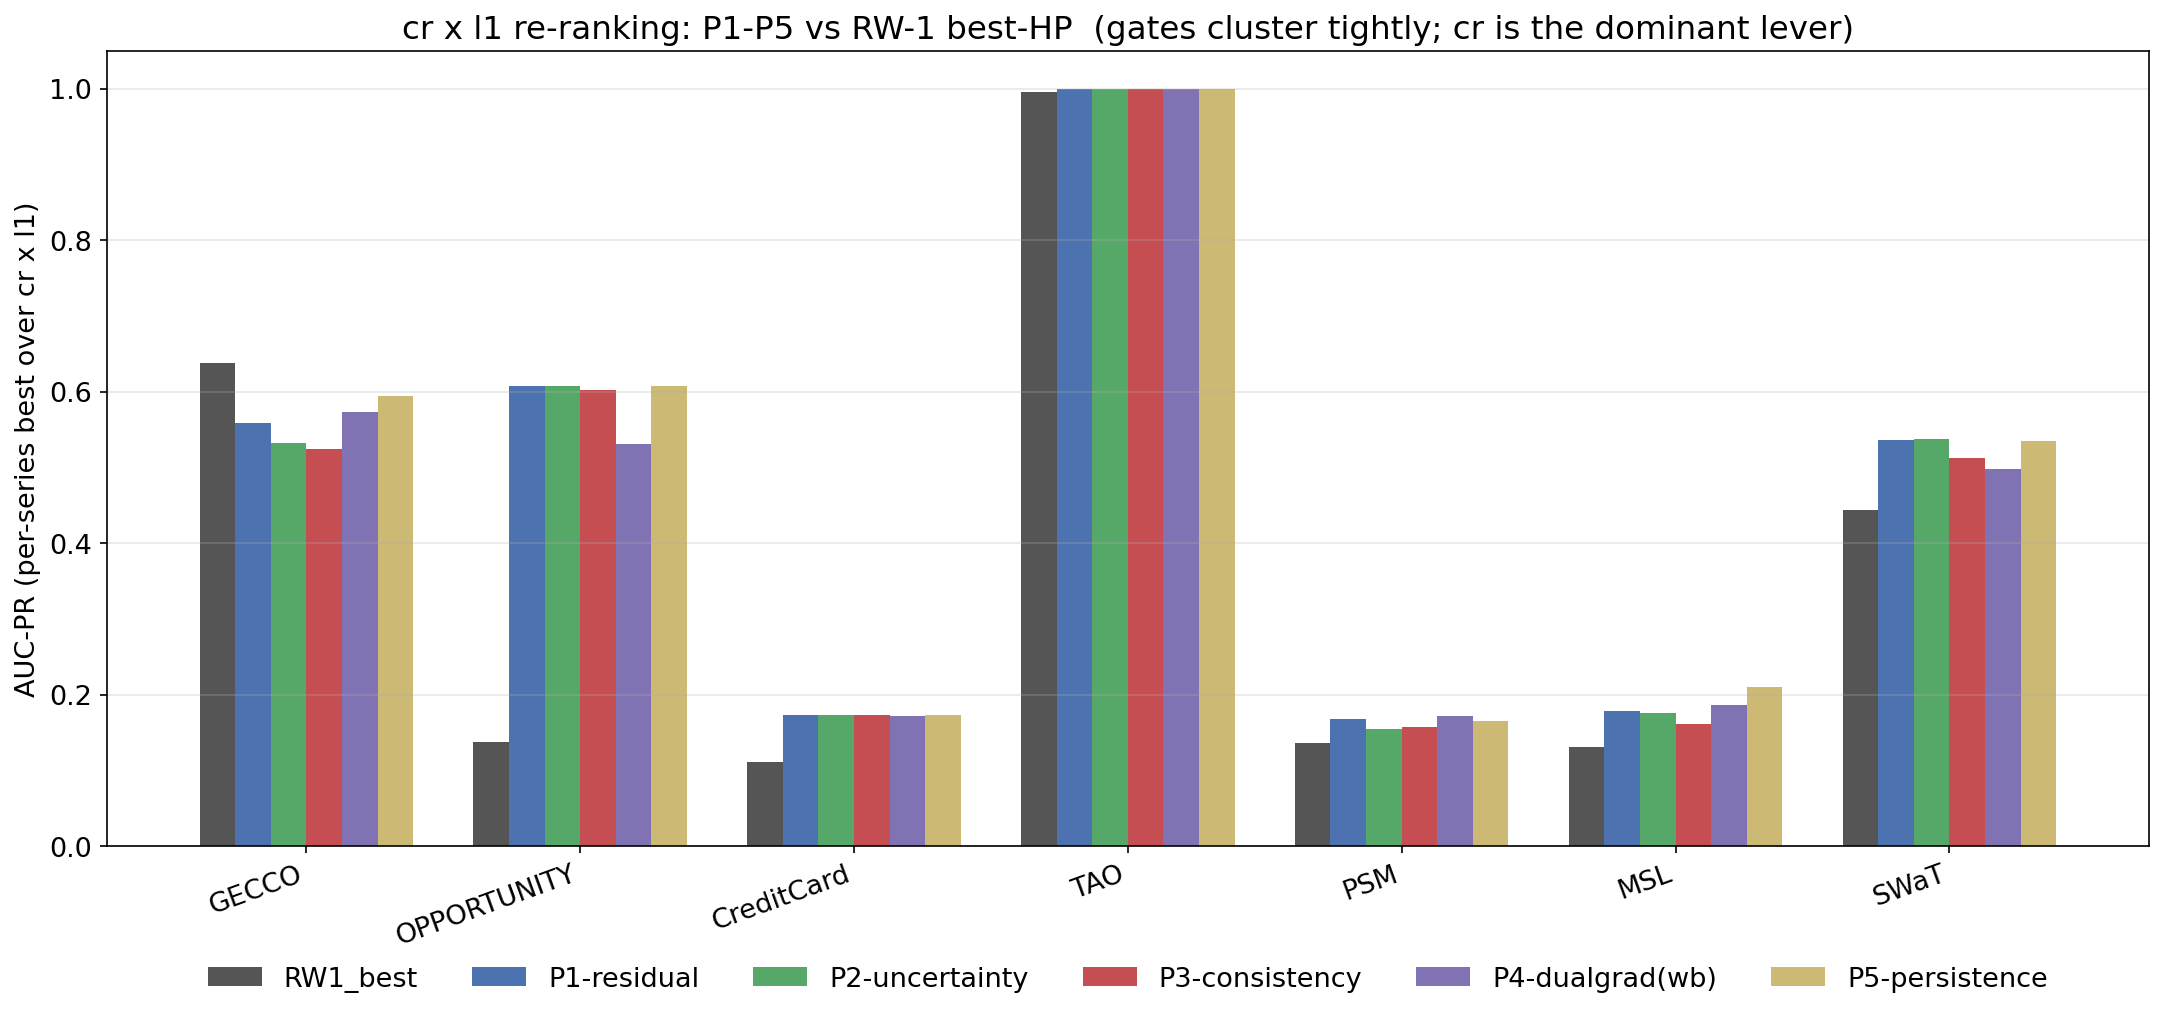
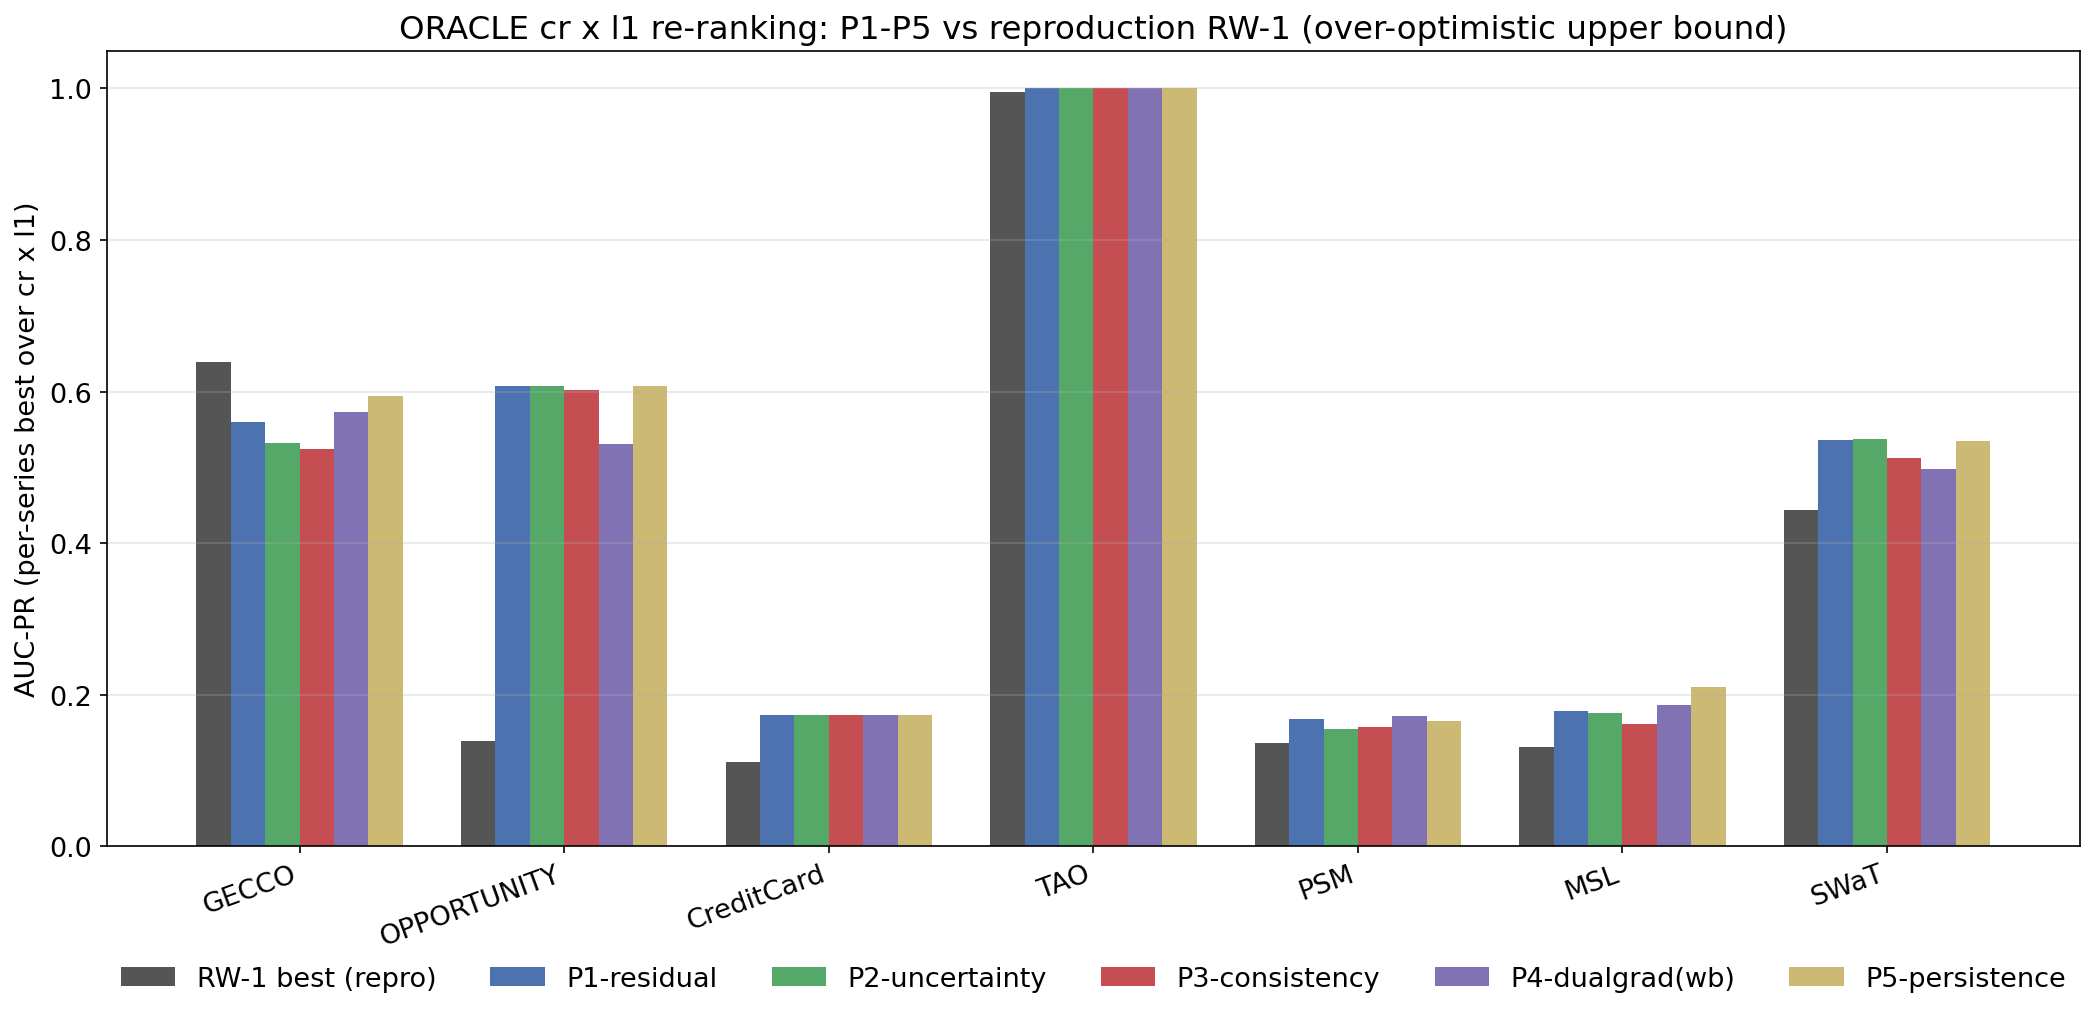
docs: deployable single-config vs thesis RW 1 (oracle 6/7 -> 3/7)
Addresses the fairness caveat with NO new runs, using two fixes:
(a) collapse each proposal to ONE deployable (cr,l1) config (max mean-over-collections
    AUC-PR) instead of the per-series oracle;
(b) baseline against Baldo's own cr-tuned RW 1 (thesis Table 6.2) instead of our
    cr=0.1-fixed reproduction -- so RW-1 does NOT need re-running.

  MEAN(7): thesis RW1 0.343 | P1 0.424 | P2 0.424 | P3 0.422 | P4(wb) 0.409 | P5 0.425
  wins vs thesis RW 1: 3/7 for every proposal (was 6/7 oracle).

Honest reading: the oracle 6/7 collapses to 3/7, and the two big remaining "wins"
(OPPORTUNITY, SWaT) are protocol-confounded -- for the SAME RW 1 method thesis reports
SWaT 0.227 vs our gate-off reproduction 0.444 -- so the CEGAR gate's own contribution is
~ 0, consistent with the tight P1-P5 clustering (0.409-0.425). correction_rate tuning is
what moves the number, not the gate.

log_crtune_rerank.py now emits both the oracle and deployable-vs-thesis tables/figures and
logs both to the wandb summary run. Drops the "re-run RW-1 cr x l1" next step (thesis Table
6.2 covers it); records the open gate-design question for the Luis meeting.

diff --git a/experiments/proposals/log_crtune_rerank.py b/experiments/proposals/log_crtune_rerank.py
@@ -32,18 +32,42 @@ NAMES = {1: "P1-residual", 2: "P2-uncertainty", 3: "P3-consistency",
          4: "P4-dualgrad(wb)", 5: "P5-persistence"}
 CSV = {n: f"results_p{n}_proposal{n}_crtune.csv" for n in range(1, 6)}
 
+# Thesis (Baldo, Table 6.2) per-dataset AUC-PR for method "RW 1" = the method we reproduce.
+# This is Baldo's own properly-tuned (cr-tuned, §6.3.2) RW-1, so it is the fair *deployable*
+# baseline. NOTE: it is on the thesis's protocol, not ours -> protocol-confounded (e.g. thesis
+# RW1 SWaT 0.227 vs our reproduction RW-1 SWaT 0.444 for the SAME method).
+THESIS_RW1 = {"GECCO": 0.621, "OPPORTUNITY": 0.059, "CreditCard": 0.173,
+              "TAO": 1.000, "PSM": 0.238, "MSL": 0.086, "SWaT": 0.227}
+
 
 def rw_means():
     rw = pd.read_csv(os.path.join(ROOT, "rw/reproduction/summary_rw1_besthp.csv"))
     return rw.groupby("family")["best_pr"].mean()
 
 
-def best_by_collection(path):
+def _load(path):
     d = pd.read_csv(path)
     d = d[pd.to_numeric(d["auc_pr"], errors="coerce").notna()].copy()
     d["auc_pr"] = d["auc_pr"].astype(float)
+    return d
+
+
+def best_by_collection(path):
+    """ORACLE: per-series best over the cr x l1 grid, then collection mean (upper bound)."""
+    d = _load(path)
     b = d.loc[d.groupby(["collection", "dataset"])["auc_pr"].idxmax()]
     return b.groupby("collection")["auc_pr"].mean()
+
+
+def fixed_config_by_collection(path):
+    """DEPLOYABLE: pick the SINGLE (cr, l1) that maximizes mean-over-collections AUC-PR, then
+    report that one config's per-collection values (no per-series oracle). Returns (series, cfg)."""
+    d = _load(path)
+    g = d.groupby(["correction_rate", "l1_weight", "collection"])["auc_pr"].mean().reset_index()
+    piv = g.pivot_table(index=["correction_rate", "l1_weight"],
+                        columns="collection", values="auc_pr").reindex(columns=ORDER)
+    best = piv.mean(axis=1).idxmax()
+    return piv.loc[best], best
 
 
 def main():
@@ -75,36 +99,72 @@ def main():
     per = f.groupby("dataset")["auc_pr"].max()
     full200_mean, full200_n = float(per.mean()), int(len(per))
 
+    # -- FIXED-CONFIG (deployable) vs thesis RW 1 baseline -------------------
+    fx, cfg = {}, {}
+    for n in range(1, 6):
+        fx[n], cfg[n] = fixed_config_by_collection(os.path.join(HERE, CSV[n]))
+    frows = []
+    for c in ORDER:
+        r = {"collection": c, "thesis_RW1": THESIS_RW1[c]}
+        for n in range(1, 6):
+            r[NAMES[n]] = round(float(fx[n][c]), 4)
+        frows.append(r)
+    fmeans = {"collection": "MEAN(7)", "thesis_RW1": round(np.mean(list(THESIS_RW1.values())), 4)}
+    for n in range(1, 6):
+        fmeans[NAMES[n]] = round(float(np.mean([fx[n][c] for c in ORDER])), 4)
+    fdf = pd.concat([pd.DataFrame(frows), pd.DataFrame([fmeans])], ignore_index=True)
+    fwins = {NAMES[n]: int(sum(fx[n][c] > THESIS_RW1[c] for c in ORDER)) for n in range(1, 6)}
+    cfgstr = {NAMES[n]: f"cr{cfg[n][0]}/l1{cfg[n][1]}" for n in range(1, 6)}
+
     txt = os.path.join(HERE, "docs", "crtune_rerank.txt")
     with open(txt, "w") as fh:
-        fh.write("cr x l1 RE-RANK (per-series best-HP, collection mean)\n")
+        fh.write("=== ORACLE: per-series best over cr x l1, collection mean ===\n")
         fh.write(df.to_string(index=False) + "\n\n")
-        fh.write(f"wins vs RW-1 (of 7): {wins}\n")
-        fh.write("CAVEAT: RW-1 best-HP swept l1 only (cr fixed); P1-P5 got the extra cr axis "
-                 "-> wins are NOT like-for-like.\n\n")
+        fh.write(f"wins vs reproduction RW-1 (of 7): {wins}\n")
+        fh.write("CAVEAT: reproduction RW-1 swept l1 only (cr fixed at 0.1); this ORACLE table gives "
+                 "P1-P5 the extra cr axis AND per-series HP -> not deployable, over-optimistic.\n\n")
+        fh.write("=== DEPLOYABLE: single (cr,l1) per proposal vs thesis RW 1 (Table 6.2, Baldo-tuned) ===\n")
+        fh.write(fdf.to_string(index=False) + "\n\n")
+        fh.write(f"chosen single config: {cfgstr}\n")
+        fh.write(f"wins vs thesis RW 1 (of 7): {fwins}\n")
+        fh.write("READ: oracle 6/7 collapses to 3/7 with one deployable config. The remaining wins "
+                 "(OPPORTUNITY/SWaT) are protocol-confounded -- our gate-off reproduction RW-1 already "
+                 "gets SWaT 0.444 vs thesis RW1 0.227 for the SAME method -> gate contribution ~ 0.\n\n")
         fh.write(f"P5 full-200 (per-file best over cr x l1) = {full200_mean:.4f} over {full200_n} series\n")
-        fh.write("  vs thesis RW-1 0.28 / reproduction RW-1 best-HP 0.289\n")
+        fh.write("  vs thesis RW-1 0.28 (Table 6.1) -- oracle upper bound; RW-1 not re-run on full-200.\n")
     print(open(txt).read())
 
-    # -- figure: grouped bar chart ------------------------------------------
+    # -- figures: two grouped bar charts (oracle + deployable) --------------
     plt.rcParams.update({"font.size": 13})
-    fig, ax = plt.subplots(figsize=(15, 7))
-    labels = ["RW1_best"] + [NAMES[n] for n in range(1, 6)]
     colors = ["#555555", "#4C72B0", "#55A868", "#C44E52", "#8172B3", "#CCB974"]
-    x = np.arange(len(ORDER)); w = 0.13
-    for i, lab in enumerate(labels):
-        vals = [df[df.collection == c][lab].values[0] for c in ORDER]
-        ax.bar(x + (i - 2.5) * w, vals, w, label=lab, color=colors[i])
-    ax.set_xticks(x); ax.set_xticklabels(ORDER, rotation=20, ha="right")
-    ax.set_ylabel("AUC-PR (per-series best over cr x l1)")
-    ax.set_title("cr x l1 re-ranking: P1-P5 vs RW-1 best-HP  (gates cluster tightly; "
-                 "cr is the dominant lever)")
-    ax.legend(ncol=6, loc="upper center", bbox_to_anchor=(0.5, -0.12), frameon=False)
-    ax.grid(axis="y", alpha=0.3)
-    fig.tight_layout()
-    figp = os.path.join(HERE, "figures", "crtune_rerank.png")
-    fig.savefig(figp, dpi=150, bbox_inches="tight")
-    print(f"figure -> {figp}")
+
+    def barchart(frame, base_col, base_label, ylab, title, out):
+        fig, ax = plt.subplots(figsize=(15, 7))
+        labels = [base_col] + [NAMES[n] for n in range(1, 6)]
+        legend = [base_label] + [NAMES[n] for n in range(1, 6)]
+        x = np.arange(len(ORDER)); w = 0.13
+        for i, lab in enumerate(labels):
+            vals = [frame[frame.collection == c][lab].values[0] for c in ORDER]
+            ax.bar(x + (i - 2.5) * w, vals, w, label=legend[i], color=colors[i])
+        ax.set_xticks(x); ax.set_xticklabels(ORDER, rotation=20, ha="right")
+        ax.set_ylabel(ylab); ax.set_title(title)
+        ax.legend(ncol=6, loc="upper center", bbox_to_anchor=(0.5, -0.12), frameon=False)
+        ax.grid(axis="y", alpha=0.3)
+        fig.tight_layout()
+        p = os.path.join(HERE, "figures", out)
+        fig.savefig(p, dpi=150, bbox_inches="tight")
+        plt.close(fig)
+        print(f"figure -> {p}")
+        return p
+
+    figp = barchart(df, "RW1_best", "RW-1 best (repro)",
+                    "AUC-PR (per-series best over cr x l1)",
+                    "ORACLE cr x l1 re-ranking: P1-P5 vs reproduction RW-1 (over-optimistic upper bound)",
+                    "crtune_rerank.png")
+    figp2 = barchart(fdf, "thesis_RW1", "thesis RW 1 (Table 6.2)",
+                     "AUC-PR (single deployable cr x l1 config)",
+                     "DEPLOYABLE single-config: P1-P5 vs thesis RW 1  (oracle 6/7 -> 3/7; gates still tied)",
+                     "crtune_fixed_vs_thesis.png")
 
     if args.no_wandb:
         return
@@ -117,12 +177,18 @@ def main():
         pass
     run = wandb.init(project="rwml-autocegar", group="crtune_rerank",
                      name="crtune-rerank-P1toP5", job_type="summary", reinit=True)
-    wandb.log({"crtune_rerank_table": wandb.Table(dataframe=df),
-               "crtune_rerank_chart": wandb.Image(figp)})
+    wandb.log({"oracle_table": wandb.Table(dataframe=df),
+               "oracle_chart": wandb.Image(figp),
+               "deployable_vs_thesis_table": wandb.Table(dataframe=fdf),
+               "deployable_vs_thesis_chart": wandb.Image(figp2)})
     for n in range(1, 6):
-        wandb.summary[f"{NAMES[n]}_mean7"] = means[NAMES[n]]
-        wandb.summary[f"{NAMES[n]}_wins_of7"] = wins[NAMES[n]]
-    wandb.summary["RW1_mean7"] = means["RW1_best"]
+        wandb.summary[f"{NAMES[n]}_oracle_mean7"] = means[NAMES[n]]
+        wandb.summary[f"{NAMES[n]}_oracle_wins_of7"] = wins[NAMES[n]]
+        wandb.summary[f"{NAMES[n]}_fixed_mean7"] = fmeans[NAMES[n]]
+        wandb.summary[f"{NAMES[n]}_fixed_wins_vs_thesis"] = fwins[NAMES[n]]
+        wandb.summary[f"{NAMES[n]}_fixed_config"] = cfgstr[NAMES[n]]
+    wandb.summary["RW1_repro_oracle_mean7"] = means["RW1_best"]
+    wandb.summary["thesis_RW1_mean7"] = fmeans["thesis_RW1"]
     wandb.summary["P5_full200_mean"] = round(full200_mean, 4)
     wandb.summary["P5_full200_n"] = full200_n
     wandb.summary["thesis_rw1_full"] = 0.28

diff --git a/experiments/proposals/docs/proposal5_tune_results.md b/experiments/proposals/docs/proposal5_tune_results.md
@@ -137,6 +137,40 @@ Figure: `figures/crtune_rerank.png`. wandb: run `crtune-rerank-P1toP5` (group `c
 4. **Same like-for-like caveat as above:** RW-1's best-HP swept l1 only, so the uniform "6/7"
    is inflated by the extra cr axis given to P1–P5, **not** by the gates.
 
+## Deployable single-config vs thesis RW 1 (the honest comparison)
+The oracle table above takes a per-series best over the grid — not deployable, and it compares
+against our own cr=0.1-fixed reproduction. Two fixes make it fair, with **no new runs**:
+(a) pick **one** `(cr, l1)` per proposal (the config maximizing mean-over-collections AUC-PR),
+and (b) use **Baldo's own properly-tuned RW 1** (thesis Table 6.2) as the baseline instead of
+our cr-fixed reproduction. Result:
+
+| collection | thesis RW 1 | P1 | P2 | P3 | P4 (wb) | P5 |
+|---|:--:|:--:|:--:|:--:|:--:|:--:|
+| GECCO | **0.621** | 0.420 | 0.418 | 0.413 | 0.402 | 0.422 |
+| OPPORTUNITY | 0.059 | 0.608 | 0.608 | 0.602 | 0.520 | 0.608 |
+| CreditCard | 0.173 | 0.173 | 0.173 | 0.173 | 0.173 | 0.173 |
+| TAO | 1.000 | 1.000 | 1.000 | 1.000 | 1.000 | 1.000 |
+| PSM | **0.238** | 0.152 | 0.151 | 0.151 | 0.155 | 0.152 |
+| MSL | 0.086 | 0.118 | 0.118 | 0.117 | 0.120 | 0.119 |
+| SWaT | 0.227 | 0.500 | 0.500 | 0.501 | 0.497 | 0.500 |
+| **MEAN(7)** | 0.343 | 0.424 | 0.424 | 0.422 | 0.409 | **0.425** |
+| **wins vs thesis** | — | 3/7 | 3/7 | 3/7 | 3/7 | 3/7 |
+
+Chosen single config: P1/P2/P5 = `cr0.001/l10.001`, P3/P4 = `cr0.001/l10.1`.
+Figure `figures/crtune_fixed_vs_thesis.png`.
+
+**What this actually shows — the oracle 6/7 collapses to 3/7:**
+- With one deployable config, each proposal beats thesis RW 1 on only **3/7** (OPPORTUNITY,
+  MSL, SWaT), loses on GECCO + PSM, ties CreditCard + TAO.
+- **The two big "wins" (OPPORTUNITY, SWaT) are protocol-confounded, not gate gains.** For the
+  *same* RW 1 method, thesis reports SWaT 0.227 while our gate-off reproduction already gets
+  0.444, and OPPORTUNITY 0.059 vs our 0.138 — the gaps are preprocessing/protocol, present
+  before any gate. So the gate's own contribution is **≈ 0**, exactly as the tight P1–P5
+  clustering (0.409–0.425) implies.
+- **Honest headline:** correction_rate tuning is what moves the number; the CEGAR gate (any of
+  P1–P5, incl. P4's write-back) neither helps nor hurts on aggregate once HP and protocol are
+  controlled. P5 remains nominal-best (0.425) but within noise of P1/P2.
+
 ## P5 full-200 benchmark (per-file best over cr × l1)
 P5 (`h5`, auto-λ) over the full 200-series RW benchmark, per-file best over `cr × l1`:
 **mean AUC-PR = 0.364** (199 series) vs **thesis RW-1 0.28** / reproduction RW-1 best-HP 0.289.
@@ -145,6 +179,11 @@ same cr×l1 grid, so it is P5-vs-thesis, not a matched head-to-head. Source
 `results_p5_p5_full200_besthp.csv`; aggregated by `log_crtune_rerank.py`.
 
 ## Next steps
-- **RW-1 `cr × l1` sweep** (baseline-only) so the 6/7 becomes a fair like-for-like — this is
-  now the priority (P1–P5 have an unfair extra axis until RW-1 gets it too).
-- For a headline claim, report the single fixed config that maximizes mean Δ (not oracle).
+- ~~RW-1 `cr × l1` sweep~~ — **not needed**: Baldo's thesis Table 6.2 already reports the
+  properly-tuned RW 1 per collection, so it serves as the fair (deployable) baseline without
+  re-running RW-1. The deployable single-config comparison above uses it.
+- ~~report a single fixed config, not oracle~~ — **done** (deployable table above).
+- **Remaining, for the meeting with Luís:** discuss gate designs beyond P1–P5 given that the
+  current CEGAR gate contributes ≈ 0 on aggregate. The λ-controller ablations are dropped
+  (λ 1.0 / 1.5 / auto near-identical). Open question: is there a gate formulation that helps
+  where correction-magnitude scoring provably fails (e.g. CreditCard point anomalies)?

diff --git a/experiments/proposals/docs/SUMMARY.md b/experiments/proposals/docs/SUMMARY.md
@@ -213,12 +213,35 @@ the grid, collection mean:
   `cr` and `l1` are what move the number. P5 stays the best single gate (0.470), P1 second.
 - **P4's docx write-back (`gradnorm_wb`) runs cleanly but adds no aggregate lift** — mid-pack
   at 0.448, below P1/P5.
-- **Like-for-like caveat**: RW-1 best-HP swept `l1` only, so the uniform 6/7 "wins" is inflated
-  by the extra `cr` axis given to P1–P5, not by the gates. The honest reading: gate contribution
-  ≈ 0; almost all the gain is from tuning `correction_rate`. Fair next step = give RW-1 the same
-  cr × l1 sweep.
-- **P5 full-200** (per-file best over cr × l1): mean AUC-PR **0.364** (199 series) vs thesis
-  RW-1 0.28 — an oracle upper bound, RW-1 not re-run on full-200 under the same grid.
+- **Like-for-like caveat**: the table above is an *oracle* (per-series best) vs our own
+  cr=0.1-fixed reproduction, so the uniform 6/7 is inflated by the extra `cr` axis, not the gates.
 
-Figure `figures/crtune_rerank.png`; wandb run `crtune-rerank-P1toP5` (group `crtune_rerank`);
-reproducible via `experiments/proposals/log_crtune_rerank.py`.
+### Deployable single-config vs thesis RW 1 (the honest comparison)
+Fixing both issues with **no new runs** — (a) one deployable `(cr,l1)` per proposal, (b) Baldo's
+properly-tuned **RW 1** (thesis Table 6.2) as baseline instead of our cr-fixed reproduction:
+
+| collection | thesis RW 1 | P1 | P2 | P3 | P4 (wb) | P5 |
+|---|:--:|:--:|:--:|:--:|:--:|:--:|
+| GECCO | **0.621** | 0.420 | 0.418 | 0.413 | 0.402 | 0.422 |
+| OPPORTUNITY | 0.059 | 0.608 | 0.608 | 0.602 | 0.520 | 0.608 |
+| CreditCard | 0.173 | 0.173 | 0.173 | 0.173 | 0.173 | 0.173 |
+| TAO | 1.000 | 1.000 | 1.000 | 1.000 | 1.000 | 1.000 |
+| PSM | **0.238** | 0.152 | 0.151 | 0.151 | 0.155 | 0.152 |
+| MSL | 0.086 | 0.118 | 0.118 | 0.117 | 0.120 | 0.119 |
+| SWaT | 0.227 | 0.500 | 0.500 | 0.501 | 0.497 | 0.500 |
+| **MEAN(7)** | 0.343 | 0.424 | 0.424 | 0.422 | 0.409 | **0.425** |
+| **wins vs thesis** | — | 3/7 | 3/7 | 3/7 | 3/7 | 3/7 |
+
+- **The oracle 6/7 collapses to 3/7** (OPPORTUNITY, MSL, SWaT), losing GECCO + PSM, tying
+  CreditCard + TAO. Chosen config: P1/P2/P5 `cr0.001/l10.001`, P3/P4 `cr0.001/l10.1`.
+- **The two big wins are protocol-confounded, not gate gains**: for the *same* RW 1, thesis
+  reports SWaT 0.227 vs our gate-off reproduction 0.444, OPPORTUNITY 0.059 vs 0.138 — gaps that
+  exist before any gate. **Gate contribution ≈ 0**, matching the tight P1–P5 clustering.
+- **Honest headline:** `correction_rate` tuning moves the number; the CEGAR gate (any of P1–P5,
+  incl. P4's write-back) neither helps nor hurts on aggregate once HP + protocol are controlled.
+- **P5 full-200** (per-file best over cr × l1): mean AUC-PR **0.364** (199 series) vs thesis
+  RW-1 0.28 — an oracle upper bound; RW-1 not re-run on full-200 under the same grid.
+
+Figures `figures/crtune_rerank.png` (oracle) + `figures/crtune_fixed_vs_thesis.png` (deployable);
+wandb run `crtune-rerank-P1toP5` (group `crtune_rerank`); reproducible via
+`experiments/proposals/log_crtune_rerank.py`.